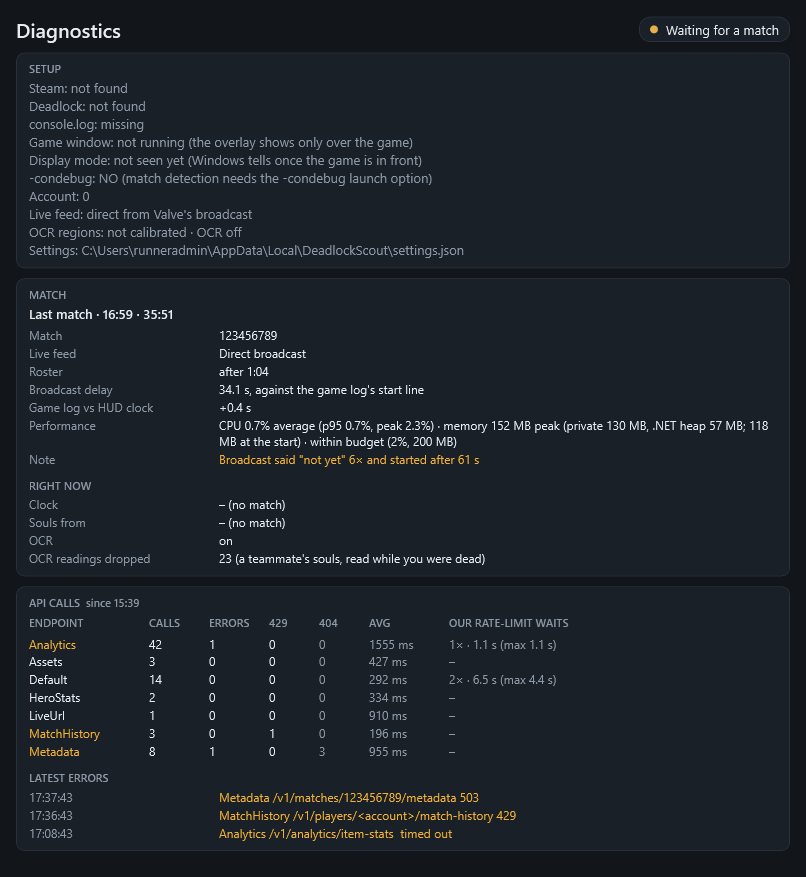
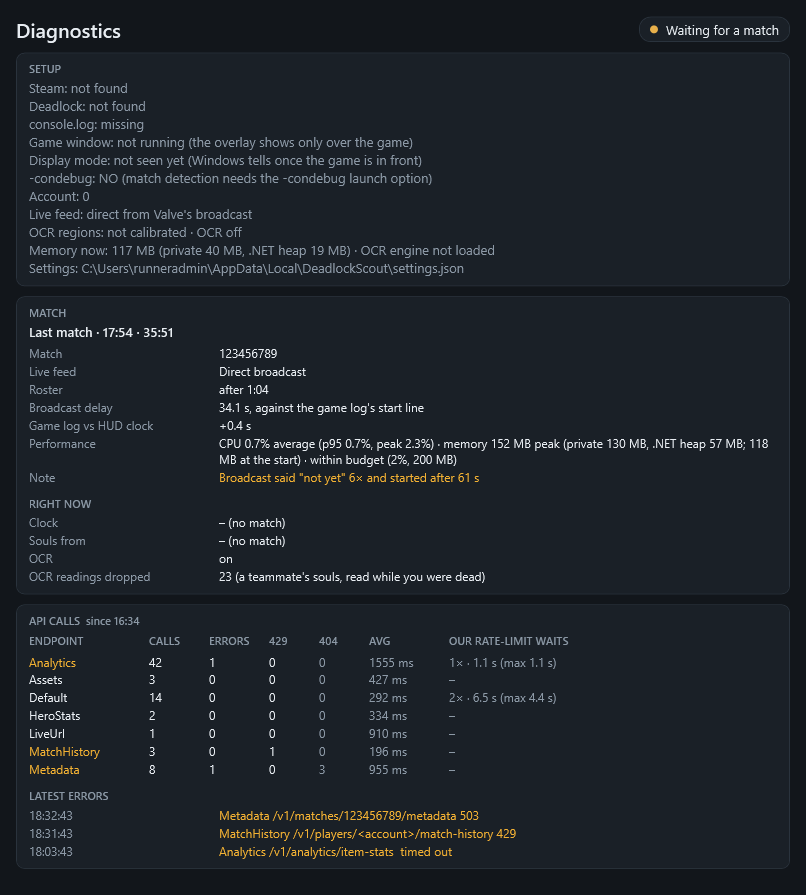
Memory: load Windows OCR on first use; a live "Memory now" line in Diagnostics (#85)
* Memory: load Windows OCR on first use; a live "Memory now" line in Diagnostics

Two real matches came out at 337–363 MB peak working set with a .NET heap of only 68–95 MB and ~250 MB already at the
match's start: the weight is native (WPF, Windows OCR, the runtime), not our objects or the broadcast decoder.

- WindowsMediaOcrEngine creates the engine and its language model on the first read instead of at startup, so with
  OCR off it never loads; the language it will use is read from the installed OCR languages, so the setup lines
  still name it.
- Diagnostics' setup lines show "Memory now: 248 MB (private 210 MB, .NET heap 41 MB) · OCR engine loaded", refreshed
  each second, so each part's cost (OCR, the main window, the overlay preview) shows by switching it on and off.
- Player check 6 gets that two-minute split.

Claude-Session: https://claude.ai/code/session_01LSDkBn23Na5vMSKWLtGadZ

* Update app screenshots

---------

diff --git a/src/DeadlockScout.App/Services/WindowsMediaOcrEngine.cs b/src/DeadlockScout.App/Services/WindowsMediaOcrEngine.cs
@@ -11,31 +11,54 @@ namespace DeadlockScout.App.Services;
 
 /// <summary>
 /// The built-in Windows OCR engine (Windows.Media.Ocr), reading one prepared region at a time. Uses the first language
-/// of your Windows profile that has OCR support, else English; unavailable when no OCR language is installed.
+/// of your Windows profile that has OCR support, else English; unavailable when no OCR language is installed. The engine
+/// itself (and its language model, tens of MB of native memory) loads on the first read, so with OCR off it never does;
+/// which language it will use is known at once from the list of installed OCR languages.
 /// </summary>
 public sealed class WindowsMediaOcrEngine : IOcrEngine, IDisposable
 {
-    private readonly OcrEngine? _engine;
+    private readonly string? _language;
+    private readonly Lazy<OcrEngine?> _engine;
+    private readonly ILogger _log;
     private readonly SemaphoreSlim _gate = new(1, 1); // one recognition at a time per engine
 
     public WindowsMediaOcrEngine(ILogger<WindowsMediaOcrEngine>? log = null)
     {
-        log ??= NullLogger<WindowsMediaOcrEngine>.Instance;
-        try
-        {
-            _engine = OcrEngine.TryCreateFromUserProfileLanguages()
-                      ?? (OcrEngine.IsLanguageSupported(new Language("en-US")) ? OcrEngine.TryCreateFromLanguage(new Language("en-US")) : null);
-        }
-        catch (Exception ex) { log.LogWarning(ex, "Windows OCR could not start"); }
-        if (_engine is null) log.LogInformation("Windows OCR is unavailable: no OCR language is installed");
+        _log = log ?? NullLogger<WindowsMediaOcrEngine>.Instance;
+        try { _language = PickLanguage(); }
+        catch (Exception ex) { _log.LogWarning(ex, "Windows OCR's languages could not be read"); }
+        if (_language is null) _log.LogInformation("Windows OCR is unavailable: no OCR language is installed");
+        _engine = new Lazy<OcrEngine?>(Create, LazyThreadSafetyMode.ExecutionAndPublication);
     }
 
-    public string Name => _engine is null ? "Windows OCR (no OCR language installed)" : $"Windows OCR ({_engine.RecognizerLanguage.LanguageTag})";
-    public bool IsAvailable => _engine is not null;
+    public string Name => _language is null ? "Windows OCR (no OCR language installed)" : $"Windows OCR ({_language})";
+    public bool IsAvailable => _language is not null;
+    /// <summary>Whether the engine has been loaded (by a first read); for the memory line in Diagnostics.</summary>
+    public bool Loaded => _engine.IsValueCreated && _engine.Value is not null;
+
+    /// <summary>The first profile language Windows OCR supports, else en-US when installed, else none.</summary>
+    private static string? PickLanguage()
+    {
+        foreach (var tag in Windows.System.UserProfile.GlobalizationPreferences.Languages)
+            if (OcrEngine.IsLanguageSupported(new Language(tag))) return tag;
+        return OcrEngine.IsLanguageSupported(new Language("en-US")) ? "en-US" : null;
+    }
+
+    private OcrEngine? Create()
+    {
+        if (_language is null) return null;
+        try
+        {
+            var engine = OcrEngine.TryCreateFromLanguage(new Language(_language)) ?? OcrEngine.TryCreateFromUserProfileLanguages();
+            if (engine is not null) _log.LogInformation("Windows OCR loaded ({Language})", engine.RecognizerLanguage.LanguageTag);
+            return engine;
+        }
+        catch (Exception ex) { _log.LogWarning(ex, "Windows OCR could not start"); return null; }
+    }
 
     public async Task<string?> RecognizeAsync(CapturedFrame region, CancellationToken ct)
     {
-        if (_engine is null) return null;
+        if (_engine.Value is not { } engine) return null;
         var prepared = OcrPreprocess.Prepare(region);
         if (prepared.Width > OcrEngine.MaxImageDimension || prepared.Height > OcrEngine.MaxImageDimension) return null;
         await _gate.WaitAsync(ct).ConfigureAwait(false);
@@ -43,7 +66,7 @@ public sealed class WindowsMediaOcrEngine : IOcrEngine, IDisposable
         {
             using var bitmap = SoftwareBitmap.CreateCopyFromBuffer(CryptographicBuffer.CreateFromByteArray(prepared.Bgra.ToArray()),
                 BitmapPixelFormat.Bgra8, prepared.Width, prepared.Height, BitmapAlphaMode.Premultiplied);
-            var result = await _engine.RecognizeAsync(bitmap).AsTask(ct).ConfigureAwait(false);
+            var result = await engine.RecognizeAsync(bitmap).AsTask(ct).ConfigureAwait(false);
             return result.Text;
         }
         finally { _gate.Release(); }

diff --git a/src/DeadlockScout.App/MainWindow.xaml.cs b/src/DeadlockScout.App/MainWindow.xaml.cs
@@ -104,13 +104,25 @@ public partial class MainWindow : Window
         return game.Found ? $"found ({_gameWindow.FoundIn}){(game.Foreground ? ", in front" : "")}" : "not running (the overlay shows only over the game)";
     }
 
+    /// <summary>
+    /// "248 MB (private 210 MB, .NET heap 41 MB) · OCR engine not loaded": this process right now, so a player can see
+    /// what a window, OCR or a match costs by switching it on and off with Diagnostics open (the 1.0 budget is 200 MB).
+    /// </summary>
+    private string MemoryNow()
+    {
+        using var self = Process.GetCurrentProcess();
+        static string Mb(long bytes) => $"{bytes / (1024 * 1024)} MB";
+        string ocr = _ocr is Services.WindowsMediaOcrEngine w ? (w.Loaded ? " · OCR engine loaded" : " · OCR engine not loaded") : "";
+        return $"{Mb(self.WorkingSet64)} (private {Mb(self.PrivateMemorySize64)}, .NET heap {Mb(GC.GetTotalMemory(false))}){ocr}";
+    }
+
     public void RefreshDetection()
     {
         var steam = _paths.SteamPath ?? "not found";
         var game = _paths.DeadlockPath ?? "not found";
         var log = _paths.ConsoleLogPath;
         string condebug = _paths.HasCondebug ? "yes" : "NO (match detection needs the -condebug launch option)";
-        _state.Status.Detection = $"Steam: {steam}\nDeadlock: {game}\nconsole.log: {(log is not null && File.Exists(log) ? "present" : "missing")}\nGame window: {GameWindowStatus()}\nDisplay mode: {(_state.DisplaySeen is { Length: > 0 } seen ? seen : "not seen yet (Windows tells once the game is in front)")}\n-condebug: {condebug}\nAccount: {_paths.AccountId}\nLive feed: {_settings.CurrentValue.Api.LiveSource switch { DeadlockScout.Core.Settings.LiveSource.SelfHosted => "self-hosted at " + _settings.CurrentValue.Api.LiveUrl, DeadlockScout.Core.Settings.LiveSource.Direct => "direct from Valve's broadcast", _ => "hosted (api.deadlock-api.com)" }}\nOCR regions: {OcrRegionSummary()}\nSettings: {_settings.Path}";
+        _state.Status.Detection = $"Steam: {steam}\nDeadlock: {game}\nconsole.log: {(log is not null && File.Exists(log) ? "present" : "missing")}\nGame window: {GameWindowStatus()}\nDisplay mode: {(_state.DisplaySeen is { Length: > 0 } seen ? seen : "not seen yet (Windows tells once the game is in front)")}\n-condebug: {condebug}\nAccount: {_paths.AccountId}\nLive feed: {_settings.CurrentValue.Api.LiveSource switch { DeadlockScout.Core.Settings.LiveSource.SelfHosted => "self-hosted at " + _settings.CurrentValue.Api.LiveUrl, DeadlockScout.Core.Settings.LiveSource.Direct => "direct from Valve's broadcast", _ => "hosted (api.deadlock-api.com)" }}\nOCR regions: {OcrRegionSummary()}\nMemory now: {MemoryNow()}\nSettings: {_settings.Path}";
         if (_settings.LastError is { } err) _state.Status.Warning = err;
     }
 

diff --git a/docs/verification/api.md b/docs/verification/api.md
@@ -339,6 +339,10 @@ What only a player's PC can confirm, in the order that costs least. Each closes 
    before the next one starts, and send the "performance:" line under the last match (CPU average, p95 and peak,
    memory peak; no names or ids), with the PC's CPU and RAM. The log file (Diagnostics → Open log folder) has the same line at each match's end.
    Two matches, one with OCR on, close the M11 budget line.
+   *Memory split, no match needed:* Diagnostics' setup lines show "Memory now" each second. Read it (a) with OCR off
+   after a fresh start, (b) after turning OCR on and opening the calibration tool with the game running (the engine
+   loads on its first read), (c) with the main window hidden to the tray, and (d) with the overlay preview on; each
+   difference is that part's cost.
 
 ## Still open (needs a real match on the current build)
 
